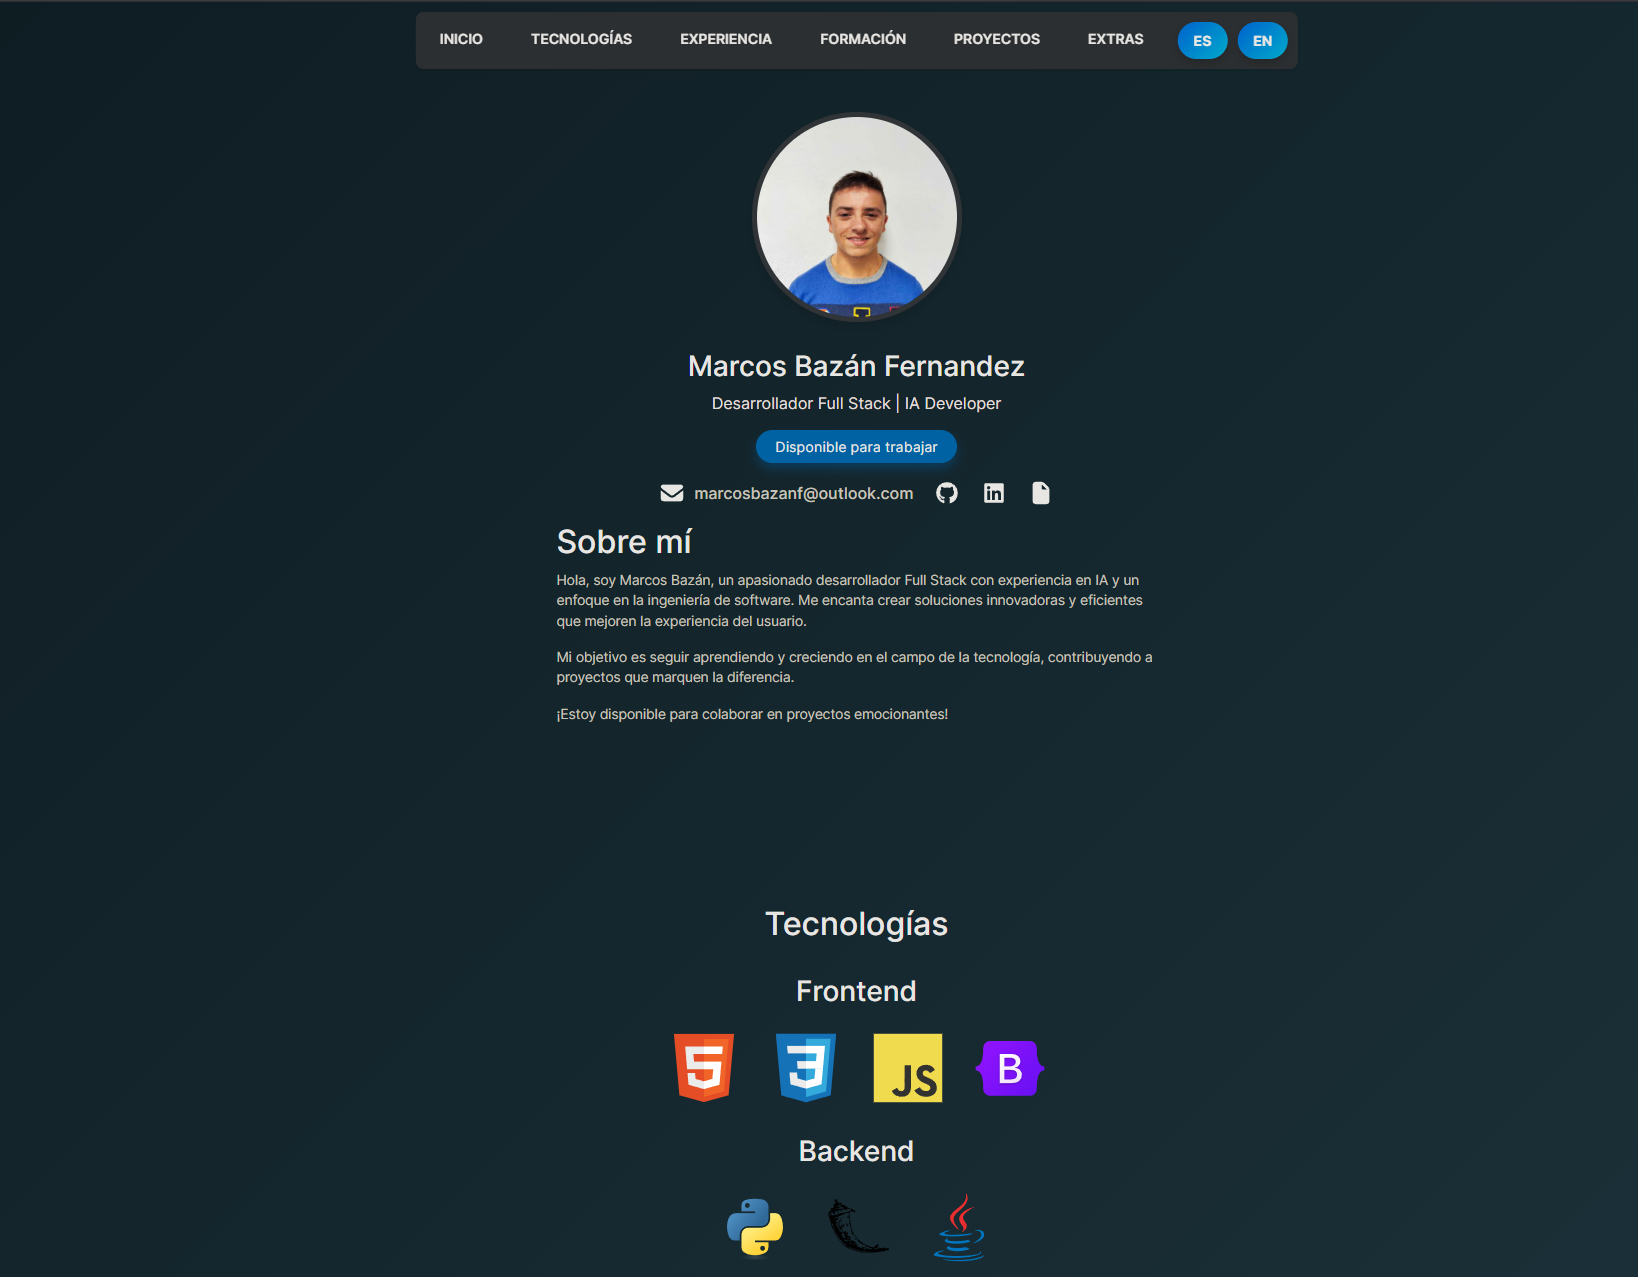
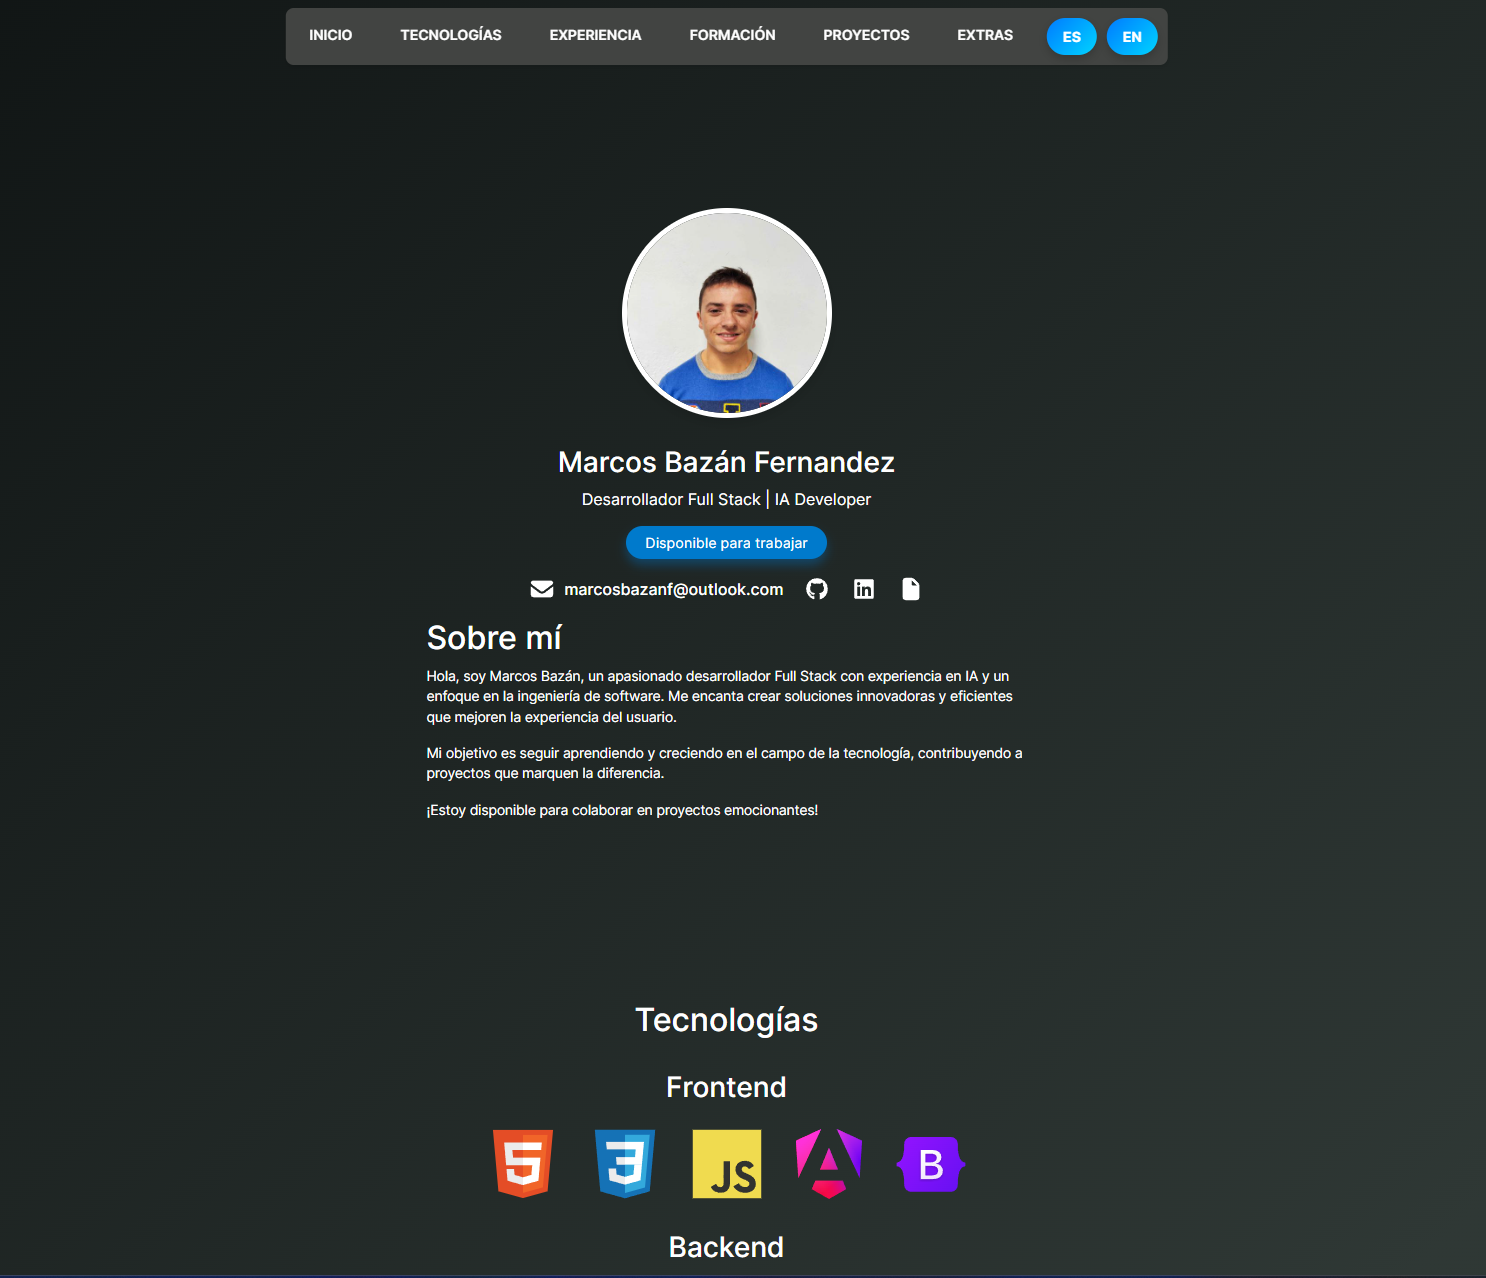
mejorando el menu

diff --git a/src/app/Pages/Menu/menu.component.css b/src/app/Pages/Menu/menu.component.css
@@ -1,22 +1,11 @@
-html {
-  scroll-behavior: smooth;
-}
-
-#main {
-  display: flex;
-  justify-content: center;
-  padding: 0 20px 45px;
-  box-sizing: border-box;
-}
-
-/* Nav centrado y fijo */
 nav {
   background-color:  #424442;
   box-shadow: 0 2px 4px rgba(0, 0, 0, 0.1);
   border-radius: 8px;
   overflow: hidden;
   display: flex;
-  flex-wrap: wrap;
+  flex-wrap: nowrap;  /* <- evita que los elementos salten de línea */
+  align-items: center; /* <- centra verticalmente */
   width: fit-content;
   margin: 0 auto;
   position: fixed;
@@ -26,98 +15,21 @@ nav {
   z-index: 1000;
 }
 
-nav a {
-  flex: 1 1 auto;
-  text-align: center;
-  padding: 16px 24px;
-  color: #fff;
-  cursor: pointer;
-  font-weight: 600;
-  font-size: 14px;
-  text-decoration: none;
-  text-transform: uppercase;
-  transition: all 0.3s ease;
-  white-space: nowrap; /* Evita cortes de texto */
+/* Contenedor para los enlaces y botones juntos */
+.nav-content {
+  display: flex;
+  align-items: center;
+  gap: 10px; /* separa enlaces y botones */
 }
 
-nav a:hover {
-  background-color: #495057;
-  transform: translateY(-4px);
-  box-shadow: 0 4px 8px rgba(0, 0, 0, 0.2);
-}
-
-nav a:first-child {
-  border-top-left-radius: 8px;
-  border-bottom-left-radius: 8px;
-}
-
-/* 📱 Ajustes responsive */
+/* Ajustes responsive */
 @media (max-width: 768px) {
   nav {
-    flex-wrap: nowrap;           /* No saltar de línea */
-    overflow-x: auto;            /* Scroll horizontal si no cabe */
+    overflow-x: auto;
     width: 100%;
     border-radius: 0;
     left: 0;
     transform: none;
     top: 0;
   }
-
-  nav::-webkit-scrollbar {
-    display: none;               /* Oculta scroll visual */
-  }
-
-  nav a {
-    padding: 14px 16px;          /* Botones más compactos */
-    font-size: 12px;
-  }
-}
-
-@media (max-width: 480px) {
-  nav {
-    flex-direction: column;      /* Menú vertical */
-    align-items: stretch;
-    position: static;            /* Fijo puede ser molesto en pantallas muy pequeñas */
-  }
-
-  nav a {
-    border-radius: 0;
-    padding: 12px;
-    font-size: 14px;
-  }
-}
-
-/* Contenedor para los botones de idioma */
-.lang-buttons {
-  display: flex;
-  gap: 10px;
-  padding: 10px;
-  align-items: center;
-}
-
-/* Estilo base de los botones */
-.lang-buttons button {
-  background: linear-gradient(135deg, #007bff, #00d4ff);
-  color: #fff;
-  font-weight: 700;
-  border: none;
-  border-radius: 25px;
-  padding: 8px 16px;
-  font-size: 14px;
-  cursor: pointer;
-  transition: all 0.3s ease-in-out;
-  box-shadow: 0 4px 10px rgba(0, 0, 0, 0.2);
-}
-
-/* Efecto hover */
-.lang-buttons button:hover {
-  background: linear-gradient(135deg, #00d4ff, #007bff);
-  transform: scale(1.1);
-  box-shadow: 0 6px 14px rgba(0, 0, 0, 0.3);
-}
-
-
-.lang-buttons button.active {
-  background: linear-gradient(135deg, #28a745, #34e89e);
-  box-shadow: 0 6px 14px rgba(40, 167, 69, 0.5);
 }
